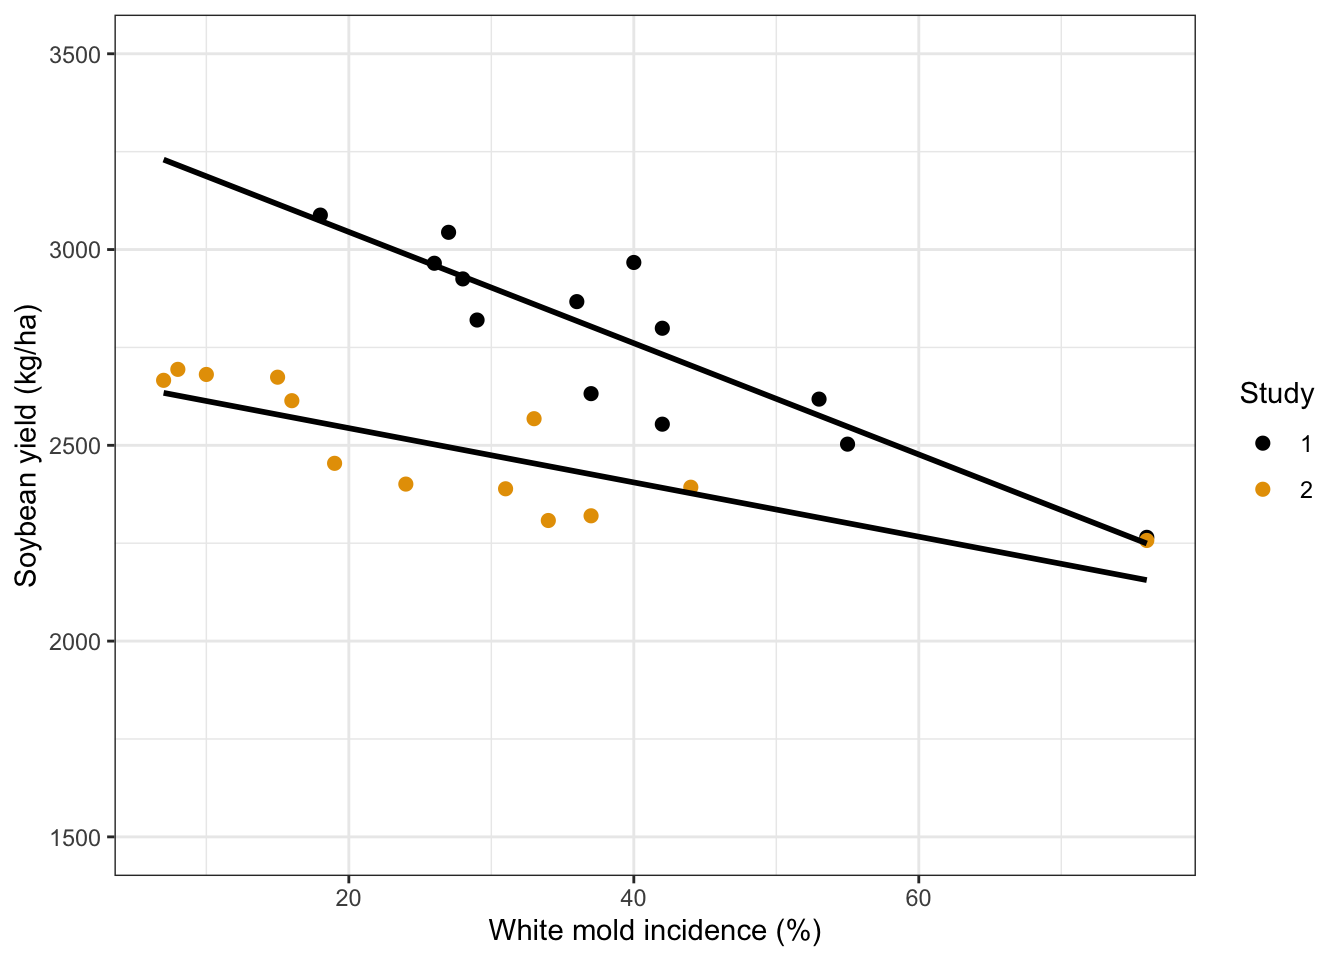
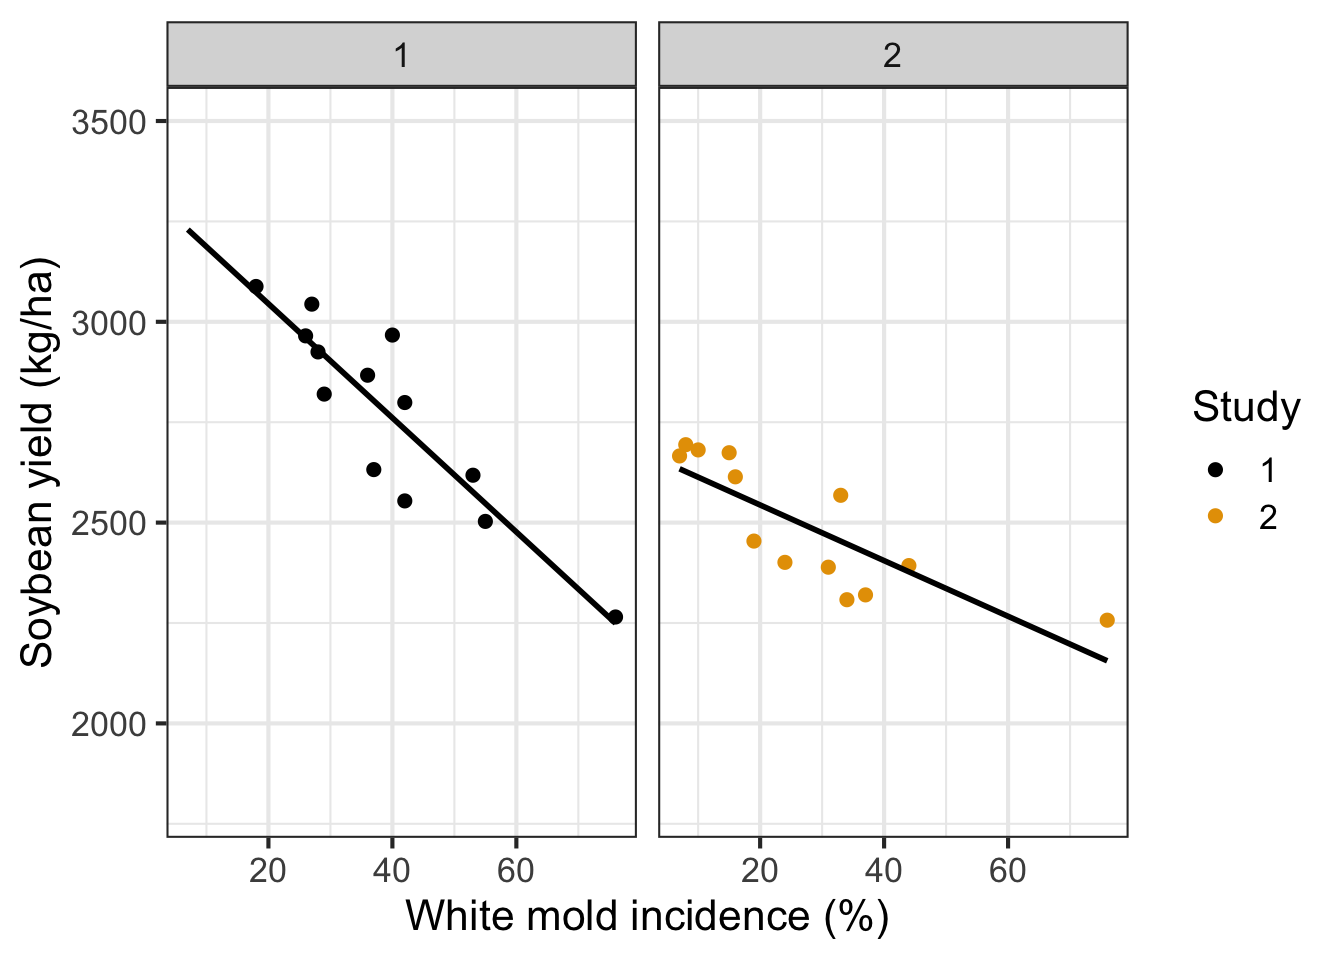
add disease yield data

diff --git a/_book/yieldloss-concepts.html b/_book/yieldloss-concepts.html
@@ -377,10 +377,10 @@ gtag('config', 'G-5T7SZYQV79', { 'anonymize_ip': true});
 <section id="diseaseyield-data-and-graphs" class="level2" data-number="15.3">
 <h2 data-number="15.3" class="anchored" data-anchor-id="diseaseyield-data-and-graphs"><span class="header-section-number">15.3</span> Disease:yield data and graphs</h2>
 <p>The datasets used to characterize a disease:yield relationship should ideally have a wide range of values of yield and disease. Two different approaches have been used to obtain such data: 1) experimentation conducted in the field or greenhouse; or 2) from surveys in naturally infected commercial fields. Whatever the case, the relationship between a measure of yield (in absolute or relative terms) and disease variable can be appraised using scatter plots that depict a “damage curve” <span class="citation" data-cites="chapter2017a">(<a href="references.html#ref-chapter2017a" role="doc-biblioref">Madden et al. 2017</a>)</span>. The disease variable most commonly represent the assessment of disease at a single time (critical point). Sometimes, the data obtained from multiple assessments during the epidemics is used to calculate the area under the disease progress curve that is used to represent disease variable.</p>
-<p>Let’s work with actual data for the incidence of white mold disease and yield of soybean determined across different locations and years in Brazil <span class="citation" data-cites="lehner2016">(<a href="references.html#ref-lehner2016" role="doc-biblioref">Lehner et al. 2016</a>)</span>. The data was made freely available in this <a href="https://github.com/emdelponte/paper-white-mold-meta-analysis" title="link">repository</a>.</p>
+<p>Let’s work with actual data for the incidence of white mold disease and yield of soybean determined across different locations and years in Brazil <span class="citation" data-cites="lehner2016">(<a href="references.html#ref-lehner2016" role="doc-biblioref">Lehner et al. 2016</a>)</span>. The variation in disease and yield was obtained by applying different fungicides that varied in efficacy, thus resulting in variable final disease incidence. The data was made freely available in this <a href="https://github.com/emdelponte/paper-white-mold-meta-analysis" title="link">repository</a>.</p>
 <div class="cell">
 <div class="sourceCode cell-code" id="cb1"><pre class="sourceCode r code-with-copy"><code class="sourceCode r"><span id="cb1-1"><a href="#cb1-1" aria-hidden="true" tabindex="-1"></a><span class="fu">library</span>(tidyverse)</span>
-<span id="cb1-2"><a href="#cb1-2" aria-hidden="true" tabindex="-1"></a><span class="fu">theme_set</span>(<span class="fu">theme_bw</span>())</span>
+<span id="cb1-2"><a href="#cb1-2" aria-hidden="true" tabindex="-1"></a><span class="fu">theme_set</span>(<span class="fu">theme_bw</span>(<span class="at">base_size =</span> <span class="dv">16</span>))</span>
 <span id="cb1-3"><a href="#cb1-3" aria-hidden="true" tabindex="-1"></a>wm <span class="ot">&lt;-</span> <span class="fu">read_csv</span>(<span class="st">"https://raw.githubusercontent.com/emdelponte/paper-white-mold-meta-analysis/gh-pages/dat-white-mold-br.csv"</span>)</span>
 <span id="cb1-4"><a href="#cb1-4" aria-hidden="true" tabindex="-1"></a><span class="fu">glimpse</span>(wm)</span></code><button title="Copy to Clipboard" class="code-copy-button"><i class="bi"></i></button></pre></div>
 <div class="cell-output cell-output-stdout">
@@ -407,10 +407,10 @@ $ yld             &lt;dbl&gt; 3729, 3739, 3863, 3904, 4471, 4313, 4177, 4001, 40
 </div>
 <p>As seen above using <code>glimpse()</code> function, the full data set has 17 variables. Let’s reduce the data set to a few variables (study, inc and yld) and the trials number 1 and 2.</p>
 <div class="cell">
-<div class="sourceCode cell-code" id="cb3"><pre class="sourceCode r code-with-copy"><code class="sourceCode r"><span id="cb3-1"><a href="#cb3-1" aria-hidden="true" tabindex="-1"></a>wm <span class="ot">&lt;-</span> wm <span class="sc">|&gt;</span> </span>
+<div class="sourceCode cell-code" id="cb3"><pre class="sourceCode r code-with-copy"><code class="sourceCode r"><span id="cb3-1"><a href="#cb3-1" aria-hidden="true" tabindex="-1"></a>wm2 <span class="ot">&lt;-</span> wm <span class="sc">|&gt;</span> </span>
 <span id="cb3-2"><a href="#cb3-2" aria-hidden="true" tabindex="-1"></a>  <span class="fu">select</span>(study, inc, yld) <span class="sc">|&gt;</span> </span>
 <span id="cb3-3"><a href="#cb3-3" aria-hidden="true" tabindex="-1"></a>  <span class="fu">filter</span>(study <span class="sc">%in%</span> <span class="fu">c</span>(<span class="dv">1</span>,<span class="dv">2</span>)) </span>
-<span id="cb3-4"><a href="#cb3-4" aria-hidden="true" tabindex="-1"></a>wm</span></code><button title="Copy to Clipboard" class="code-copy-button"><i class="bi"></i></button></pre></div>
+<span id="cb3-4"><a href="#cb3-4" aria-hidden="true" tabindex="-1"></a>wm2</span></code><button title="Copy to Clipboard" class="code-copy-button"><i class="bi"></i></button></pre></div>
 <div class="cell-output cell-output-stdout">
 <pre><code># A tibble: 26 × 3
    study   inc   yld
@@ -428,22 +428,44 @@ $ yld             &lt;dbl&gt; 3729, 3739, 3863, 3904, 4471, 4313, 4177, 4001, 40
 # … with 16 more rows</code></pre>
 </div>
 </div>
-<p>We can now produce the damage curves for each study. As it can be seen, the relationship can be described by a straight line.</p>
+<p>We can now produce the damage curves for each study. As it can be seen, the relationship can be adequately described by a straight line.</p>
 <div class="cell">
-<div class="sourceCode cell-code" id="cb5"><pre class="sourceCode r code-with-copy"><code class="sourceCode r"><span id="cb5-1"><a href="#cb5-1" aria-hidden="true" tabindex="-1"></a>wm <span class="sc">|&gt;</span> </span>
+<div class="sourceCode cell-code" id="cb5"><pre class="sourceCode r code-with-copy"><code class="sourceCode r"><span id="cb5-1"><a href="#cb5-1" aria-hidden="true" tabindex="-1"></a>wm2 <span class="sc">|&gt;</span> </span>
 <span id="cb5-2"><a href="#cb5-2" aria-hidden="true" tabindex="-1"></a>  <span class="fu">ggplot</span>(<span class="fu">aes</span>(inc, yld, </span>
 <span id="cb5-3"><a href="#cb5-3" aria-hidden="true" tabindex="-1"></a>             <span class="at">group =</span> study, </span>
 <span id="cb5-4"><a href="#cb5-4" aria-hidden="true" tabindex="-1"></a>             <span class="at">color =</span> <span class="fu">factor</span>(study)))<span class="sc">+</span></span>
 <span id="cb5-5"><a href="#cb5-5" aria-hidden="true" tabindex="-1"></a>  <span class="fu">geom_point</span>(<span class="at">size =</span> <span class="dv">2</span>)<span class="sc">+</span></span>
 <span id="cb5-6"><a href="#cb5-6" aria-hidden="true" tabindex="-1"></a>  ggthemes<span class="sc">::</span><span class="fu">scale_color_colorblind</span>()<span class="sc">+</span></span>
-<span id="cb5-7"><a href="#cb5-7" aria-hidden="true" tabindex="-1"></a>  <span class="fu">geom_smooth</span>(<span class="at">method =</span> <span class="st">"lm"</span>, <span class="at">se =</span> F, </span>
-<span id="cb5-8"><a href="#cb5-8" aria-hidden="true" tabindex="-1"></a>              <span class="at">color =</span> <span class="st">"black"</span>, <span class="at">fullrange =</span> T)<span class="sc">+</span></span>
-<span id="cb5-9"><a href="#cb5-9" aria-hidden="true" tabindex="-1"></a>  <span class="fu">ylim</span>(<span class="dv">1500</span>, <span class="dv">3500</span>)<span class="sc">+</span></span>
+<span id="cb5-7"><a href="#cb5-7" aria-hidden="true" tabindex="-1"></a>  <span class="fu">geom_smooth</span>(<span class="at">method =</span> <span class="st">"lm"</span>, <span class="at">se =</span> F, <span class="at">color =</span> <span class="st">"black"</span>, <span class="at">fullrange =</span> T)<span class="sc">+</span></span>
+<span id="cb5-8"><a href="#cb5-8" aria-hidden="true" tabindex="-1"></a>  <span class="fu">ylim</span>(<span class="dv">1800</span>, <span class="dv">3500</span>)<span class="sc">+</span></span>
+<span id="cb5-9"><a href="#cb5-9" aria-hidden="true" tabindex="-1"></a>  <span class="fu">facet_wrap</span>(<span class="sc">~</span>study)<span class="sc">+</span></span>
 <span id="cb5-10"><a href="#cb5-10" aria-hidden="true" tabindex="-1"></a>  <span class="fu">labs</span>(<span class="at">x =</span> <span class="st">"White mold incidence (%)"</span>,</span>
 <span id="cb5-11"><a href="#cb5-11" aria-hidden="true" tabindex="-1"></a>       <span class="at">y =</span> <span class="st">"Soybean yield (kg/ha)"</span>,</span>
 <span id="cb5-12"><a href="#cb5-12" aria-hidden="true" tabindex="-1"></a>       <span class="at">color =</span> <span class="st">"Study"</span>)</span></code><button title="Copy to Clipboard" class="code-copy-button"><i class="bi"></i></button></pre></div>
 <div class="cell-output-display">
 <p><img src="yieldloss-concepts_files/figure-html/unnamed-chunk-6-1.png" class="img-fluid" width="672"></p>
+</div>
+</div>
+<p>We can plot the relationships for all studies combined, which will resemble a “spaghetti” plot after adding the individual regression lines.</p>
+<div class="cell">
+<div class="sourceCode cell-code" id="cb6"><pre class="sourceCode r code-with-copy"><code class="sourceCode r"><span id="cb6-1"><a href="#cb6-1" aria-hidden="true" tabindex="-1"></a>p1 <span class="ot">&lt;-</span> wm <span class="sc">|&gt;</span> </span>
+<span id="cb6-2"><a href="#cb6-2" aria-hidden="true" tabindex="-1"></a>  <span class="fu">ggplot</span>(<span class="fu">aes</span>(inc, yld, <span class="at">group =</span> study))<span class="sc">+</span></span>
+<span id="cb6-3"><a href="#cb6-3" aria-hidden="true" tabindex="-1"></a>  <span class="fu">geom_point</span>(<span class="at">size =</span> <span class="dv">2</span>, <span class="at">alpha =</span> <span class="fl">0.5</span>)<span class="sc">+</span></span>
+<span id="cb6-4"><a href="#cb6-4" aria-hidden="true" tabindex="-1"></a>  <span class="fu">ylim</span>(<span class="dv">0</span>, <span class="dv">5000</span>)<span class="sc">+</span></span>
+<span id="cb6-5"><a href="#cb6-5" aria-hidden="true" tabindex="-1"></a>  <span class="fu">labs</span>(<span class="at">x =</span> <span class="st">"White mold incidence (%)"</span>,</span>
+<span id="cb6-6"><a href="#cb6-6" aria-hidden="true" tabindex="-1"></a>       <span class="at">y =</span> <span class="st">"Soybean yield (kg/ha)"</span>)</span>
+<span id="cb6-7"><a href="#cb6-7" aria-hidden="true" tabindex="-1"></a></span>
+<span id="cb6-8"><a href="#cb6-8" aria-hidden="true" tabindex="-1"></a>p2 <span class="ot">&lt;-</span> wm <span class="sc">|&gt;</span> </span>
+<span id="cb6-9"><a href="#cb6-9" aria-hidden="true" tabindex="-1"></a>  <span class="fu">ggplot</span>(<span class="fu">aes</span>(inc, yld, <span class="at">group =</span> study))<span class="sc">+</span></span>
+<span id="cb6-10"><a href="#cb6-10" aria-hidden="true" tabindex="-1"></a>  <span class="fu">geom_smooth</span>(<span class="at">method =</span> <span class="st">"lm"</span>, <span class="at">se =</span> F, <span class="at">fullrange =</span> T, <span class="at">color =</span> <span class="st">"black"</span>)<span class="sc">+</span></span>
+<span id="cb6-11"><a href="#cb6-11" aria-hidden="true" tabindex="-1"></a>  <span class="fu">ylim</span>(<span class="dv">0</span>, <span class="dv">5000</span>)<span class="sc">+</span></span>
+<span id="cb6-12"><a href="#cb6-12" aria-hidden="true" tabindex="-1"></a>  <span class="fu">labs</span>(<span class="at">x =</span> <span class="st">"White mold incidence (%)"</span>,</span>
+<span id="cb6-13"><a href="#cb6-13" aria-hidden="true" tabindex="-1"></a>       <span class="at">y =</span> <span class="st">"Soybean yield (kg/ha)"</span>)</span>
+<span id="cb6-14"><a href="#cb6-14" aria-hidden="true" tabindex="-1"></a></span>
+<span id="cb6-15"><a href="#cb6-15" aria-hidden="true" tabindex="-1"></a><span class="fu">library</span>(patchwork)</span>
+<span id="cb6-16"><a href="#cb6-16" aria-hidden="true" tabindex="-1"></a>p1 <span class="sc">|</span> p2</span></code><button title="Copy to Clipboard" class="code-copy-button"><i class="bi"></i></button></pre></div>
+<div class="cell-output-display">
+<p><img src="yieldloss-concepts_files/figure-html/unnamed-chunk-8-1.png" class="img-fluid" width="672"></p>
 </div>
 </div>
 
